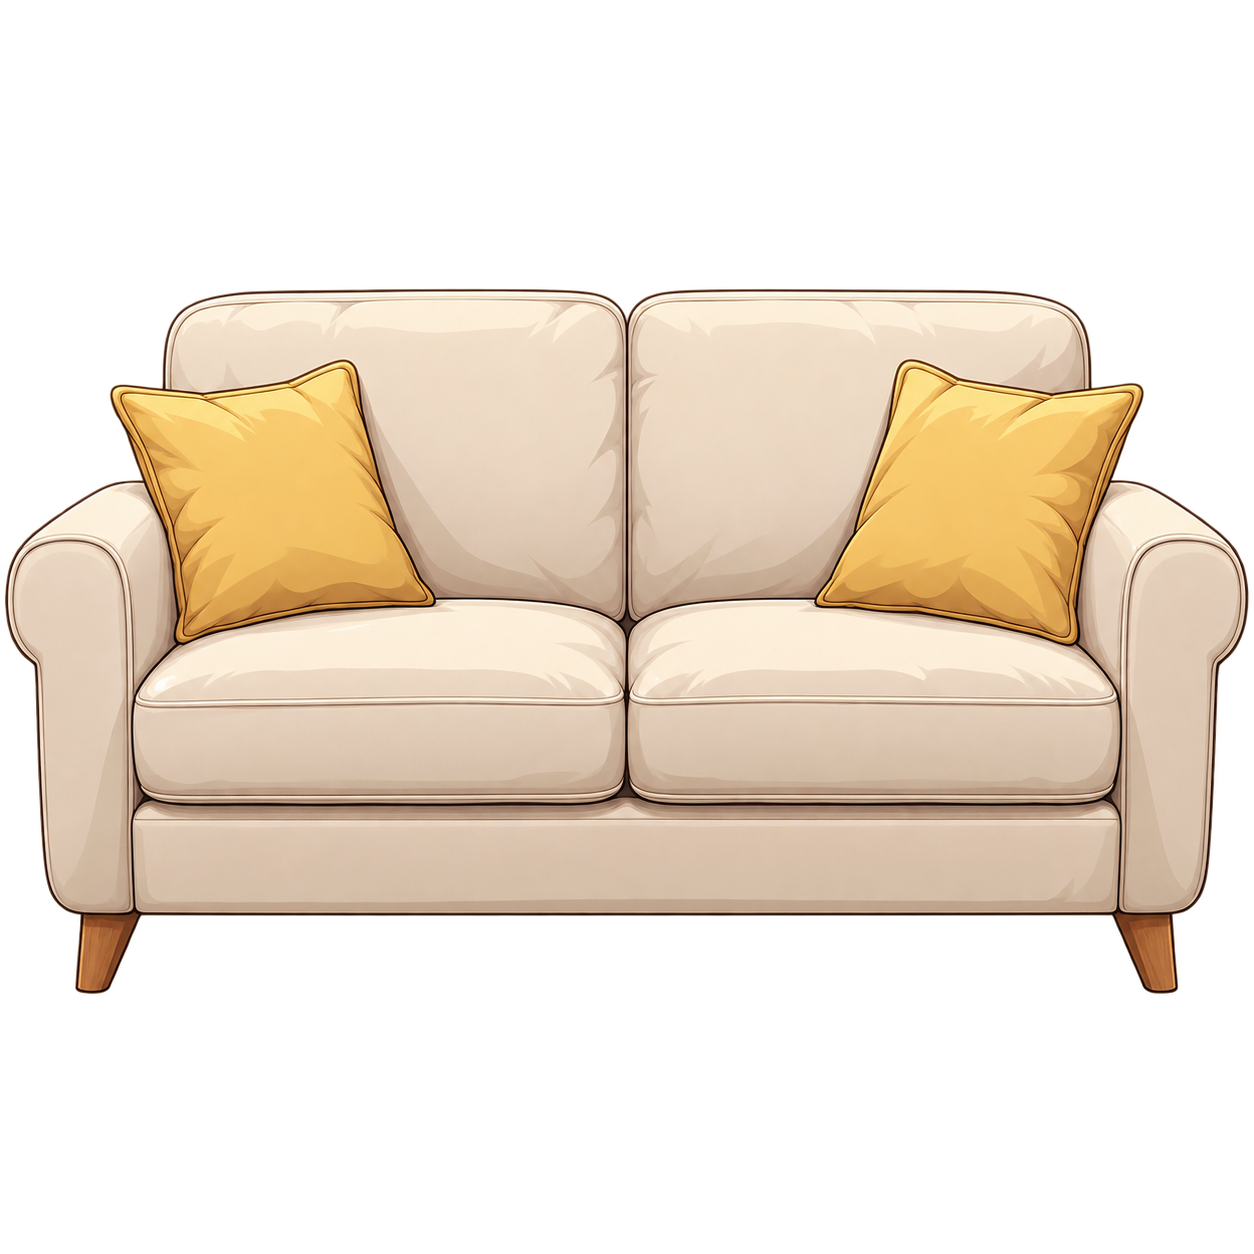
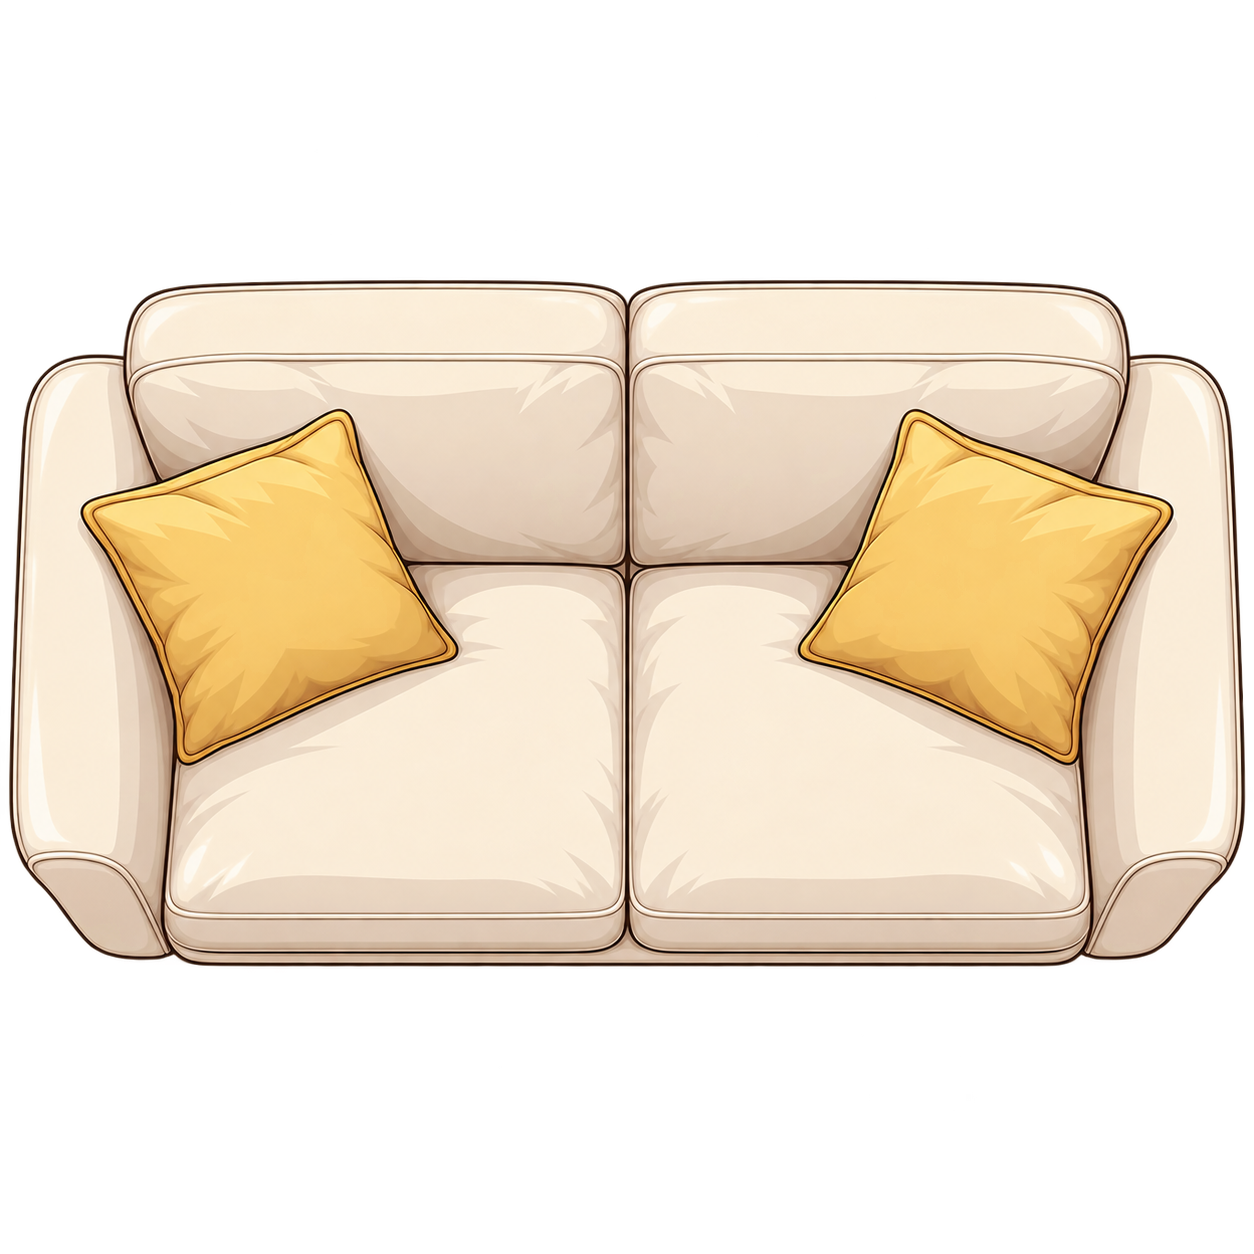
画像を真上からに差し替え

diff --git a/styles.css b/styles.css
@@ -98,6 +98,7 @@ h1, h2 { margin-bottom: 0; font-family: Georgia, "Yu Mincho", serif; font-weight
 .placed-item.flipped:not(.rotated) .furniture-art { transform: scaleX(-1); }
 .placed-item.rotated .furniture-art { position: absolute; inset: auto; left: 50%; top: 50%; width: var(--rotated-art-width); height: var(--rotated-art-height); min-width: 0; min-height: 0; padding: 0; overflow: hidden; transform: translate(-50%, -50%) rotate(var(--furniture-rotation)) scaleX(var(--flip-scale, 1)); }
 .placed-item.rotated .furniture-art img { position: static; display: block; width: 100%; height: 100%; min-width: 0; min-height: 0; object-fit: contain; object-position: center; transform: none; }
+.placed-item.rotated .furniture-art.sofa img { position: absolute; left: 0; top: 50%; width: 100%; height: auto; object-fit: fill; transform: translateY(-50%); }
 .placed-item .item-label { position: absolute; bottom: 3px; left: 50%; transform: translateX(-50%); padding: 2px 5px; border-radius: 999px; background: rgba(255,255,255,.78); font-size: 8px; white-space: nowrap; opacity: 0; transition: opacity .15s; }
 .placed-item:hover .item-label, .placed-item:focus-visible .item-label { opacity: 1; }
 .placed-item.just-placed { animation: settle .22s ease; }

diff --git a/app.js b/app.js
@@ -218,6 +218,7 @@ function validatePlacement(item, x, y, ignoredInstance = null, rotation = 0) {
     return x < placed.x + otherSize.width && x + size.width > placed.x && y < placed.y + otherSize.height && y + size.height > placed.y;
   });
   if (overlaps) return { valid: false, reason: "ほかの家具と重なっています" };
+
   return { valid: true, reason: "" };
 }
 
@@ -246,6 +247,7 @@ function finishDrag() {
       const target = state.placed.find((placed) => placed.instanceId === instanceId);
       target.x = state.drag.candidate.x;
       target.y = state.drag.candidate.y;
+      target.rotation = state.drag.rotation;
     } else {
       instanceId = `furniture-${state.nextId++}`;
       state.placed.push({ instanceId, type: state.drag.item.id, rotation: state.drag.rotation, flipped: state.drag.flipped, ...state.drag.candidate });
